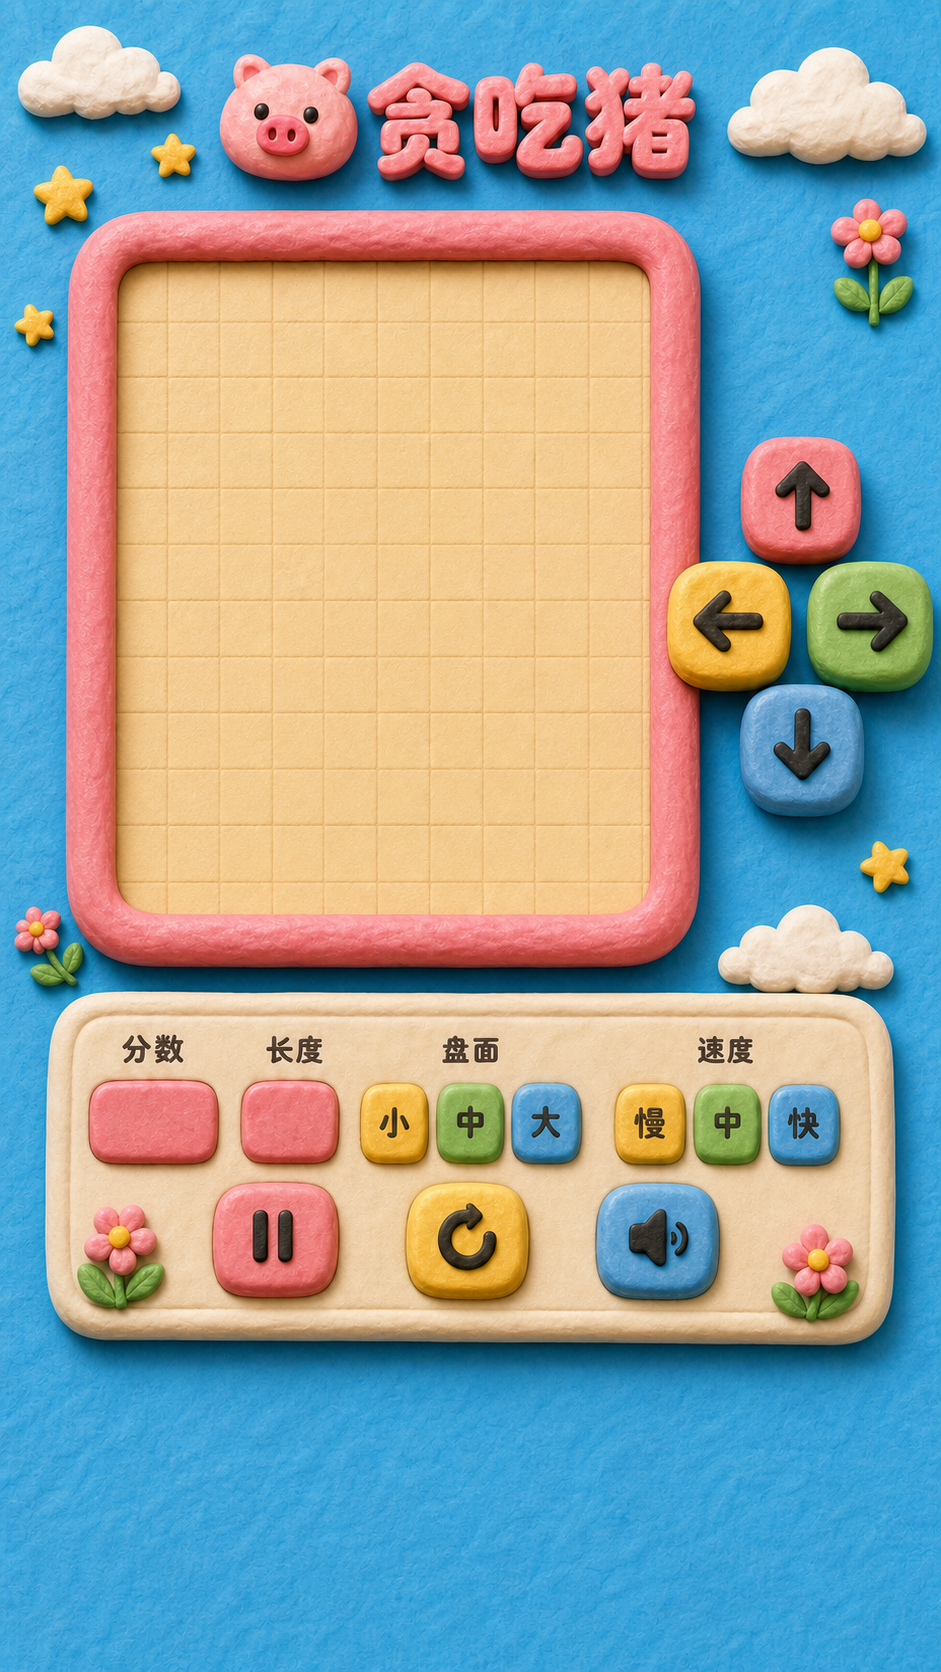
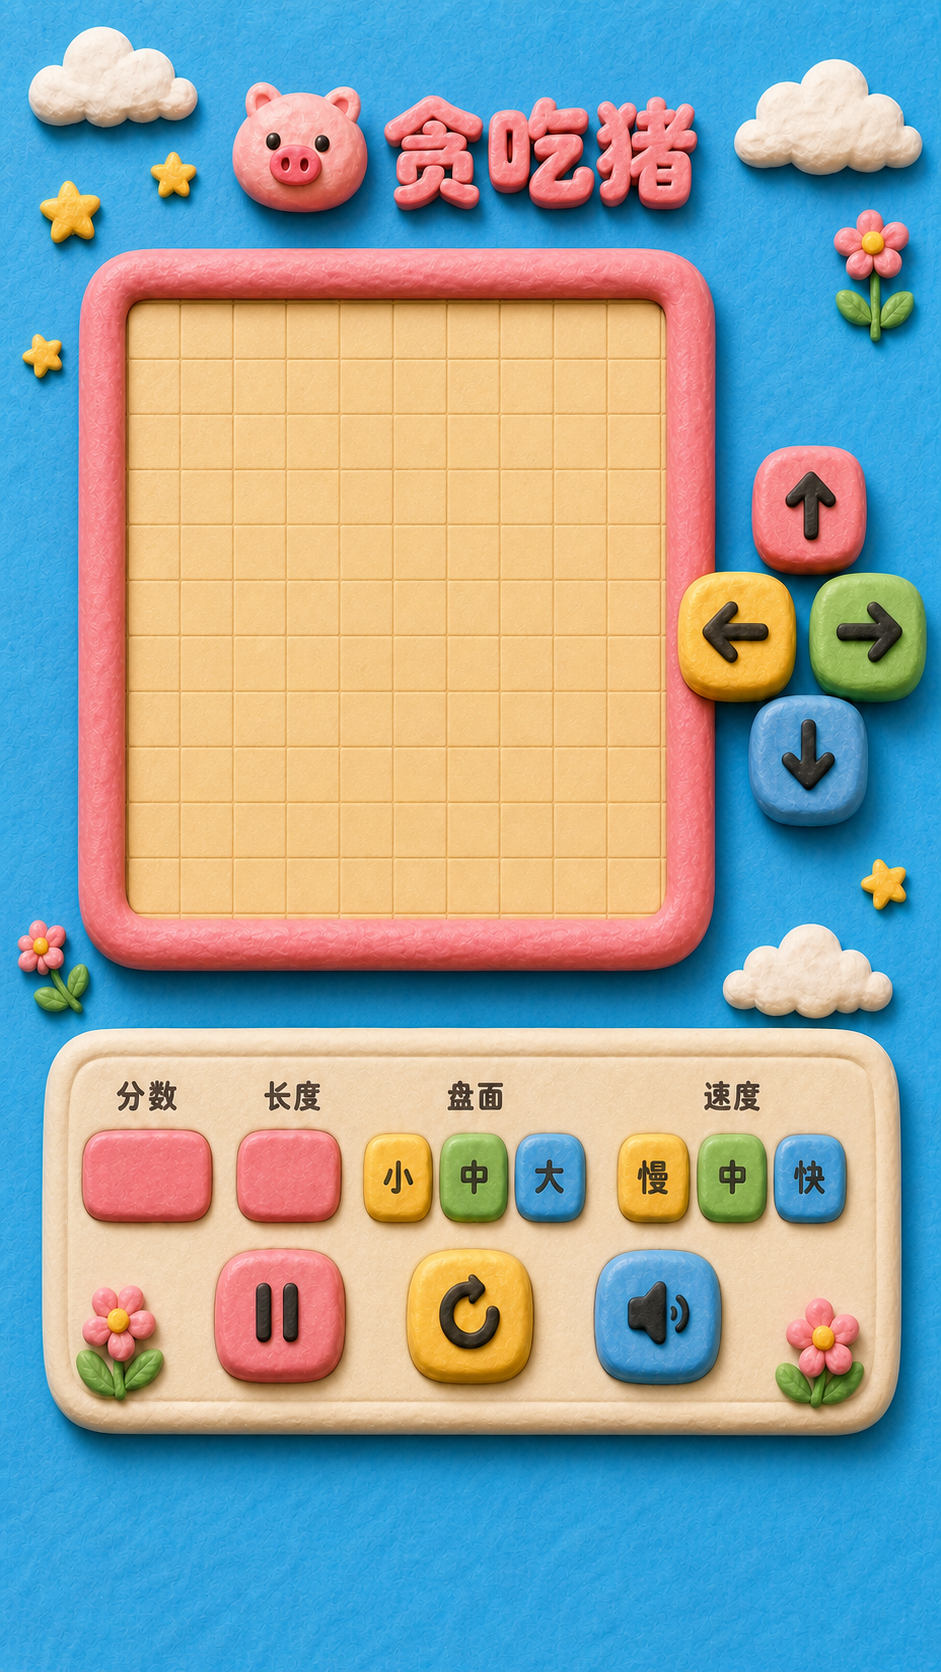
Fix clay grid proportions

diff --git a/index.html b/index.html
@@ -881,14 +881,14 @@
 
     .metric:nth-child(1) {
       left: 9.35%;
-      top: 64.82%;
+      top: 67.9%;
       width: 13.85%;
       height: 4.15%;
     }
 
     .metric:nth-child(2) {
       left: 25.55%;
-      top: 64.82%;
+      top: 67.9%;
       width: 11.3%;
       height: 4.15%;
     }
@@ -1292,9 +1292,9 @@
       const boardButtons = [...document.querySelectorAll(".board-button")];
 
       const boardSizes = {
-        small: 10,
-        medium: 12,
-        large: 14
+        small: { cols: 10, rows: 15 },
+        medium: { cols: 12, rows: 18 },
+        large: { cols: 14, rows: 21 }
       };
       const speeds = {
         slow: 260,
@@ -1329,12 +1329,16 @@
       let gameOver;
       let lastTime;
       let accumulator;
-      let gridSize = boardSizes.medium;
+      let boardConfig = boardSizes.medium;
+      let gridCols = boardConfig.cols;
+      let gridRows = boardConfig.rows;
       let boardSizeKey = "medium";
       let speedKey = "normal";
       let tile = 1;
       let tileX = 1;
       let tileY = 1;
+      let boardOffsetX = 0;
+      let boardOffsetY = 0;
       let dpr = 1;
       let best = Number(localStorage.getItem("greedyPigBest") || 0);
       let audioCtx = null;
@@ -1347,8 +1351,8 @@
       let touchStart = null;
 
       function resetGame() {
-        const mid = Math.floor(gridSize / 2);
-        const headX = Math.max(3, Math.floor(gridSize * .26));
+        const mid = Math.floor(gridRows / 2);
+        const headX = Math.max(3, Math.floor(gridCols * .26));
         snake = [
           { x: headX, y: mid },
           { x: headX - 1, y: mid },
@@ -1365,7 +1369,7 @@
         gameOver = false;
         lastTime = 0;
         accumulator = 0;
-        food = spawnFood({ x: Math.min(gridSize - 3, headX + 5), y: mid });
+        food = spawnFood({ x: Math.min(gridCols - 3, headX + 5), y: mid });
         updateHud();
         render();
       }
@@ -1429,15 +1433,15 @@
 
       function spawnFood(preferredCell) {
         const openCells = [];
-        for (let y = 0; y < gridSize; y += 1) {
-          for (let x = 0; x < gridSize; x += 1) {
+        for (let y = 0; y < gridRows; y += 1) {
+          for (let x = 0; x < gridCols; x += 1) {
             if (!snake || !snake.some(part => part.x === x && part.y === y)) {
               openCells.push({ x, y });
             }
           }
         }
         const preferredOpen = preferredCell && openCells.some(cell => cell.x === preferredCell.x && cell.y === preferredCell.y);
-        const cell = preferredOpen ? preferredCell : openCells[Math.floor(Math.random() * openCells.length)] || { x: 10, y: 10 };
+        const cell = preferredOpen ? preferredCell : openCells[Math.floor(Math.random() * openCells.length)] || { x: Math.floor(gridCols / 2), y: Math.floor(gridRows / 2) };
         const type = foods[Math.floor(Math.random() * foods.length)];
         return { ...cell, ...type };
       }
@@ -1461,7 +1465,7 @@
         };
 
         const eatsFood = nextHead.x === food.x && nextHead.y === food.y;
-        const hitsWall = nextHead.x < 0 || nextHead.y < 0 || nextHead.x >= gridSize || nextHead.y >= gridSize;
+        const hitsWall = nextHead.x < 0 || nextHead.y < 0 || nextHead.x >= gridCols || nextHead.y >= gridRows;
         const hitsBody = snake.some((part, index) => {
           const isTailMoving = index === snake.length - 1 && !eatsFood && growQueue === 0;
           return !isTailMoving && part.x === nextHead.x && part.y === nextHead.y;
@@ -1510,9 +1514,11 @@
         canvas.width = Math.round(rect.width * dpr);
         canvas.height = Math.round(rect.height * dpr);
         ctx.setTransform(dpr, 0, 0, dpr, 0, 0);
-        tileX = rect.width / gridSize;
-        tileY = rect.height / gridSize;
-        tile = Math.min(tileX, tileY);
+        tile = Math.min(rect.width / gridCols, rect.height / gridRows);
+        tileX = tile;
+        tileY = tile;
+        boardOffsetX = (rect.width - gridCols * tile) / 2;
+        boardOffsetY = (rect.height - gridRows * tile) / 2;
         render();
       }
 
@@ -1529,8 +1535,8 @@
 
       function cellCenter(cell) {
         return {
-          x: (cell.x + .5) * tileX,
-          y: (cell.y + .5) * tileY
+          x: boardOffsetX + (cell.x + .5) * tile,
+          y: boardOffsetY + (cell.y + .5) * tile
         };
       }
 
@@ -1548,18 +1554,45 @@
 
       function drawBoard(width, height) {
         ctx.save();
-        ctx.strokeStyle = "rgba(110, 78, 49, .12)";
-        ctx.lineWidth = 1;
-        for (let i = 1; i < gridSize; i += 1) {
-          const x = i * tileX;
-          const y = i * tileY;
+        const x0 = boardOffsetX;
+        const y0 = boardOffsetY;
+        const boardWidth = gridCols * tile;
+        const boardHeight = gridRows * tile;
+        const grad = ctx.createLinearGradient(x0, y0, x0 + boardWidth, y0 + boardHeight);
+        grad.addColorStop(0, "#f8dba4");
+        grad.addColorStop(.55, "#edc37e");
+        grad.addColorStop(1, "#dda964");
+        ctx.fillStyle = grad;
+        ctx.fillRect(x0, y0, boardWidth, boardHeight);
+
+        ctx.fillStyle = "rgba(255,255,255,.16)";
+        for (let y = y0 + tile * .35; y < y0 + boardHeight; y += tile * 2.1) {
+          for (let x = x0 + tile * .35; x < x0 + boardWidth; x += tile * 2.2) {
+            ctx.beginPath();
+            ctx.ellipse(x, y, tile * .09, tile * .035, -.45, 0, Math.PI * 2);
+            ctx.fill();
+          }
+        }
+
+        ctx.strokeStyle = "rgba(122, 79, 42, .24)";
+        ctx.lineWidth = Math.max(1, tile * .045);
+        for (let i = 1; i < gridCols; i += 1) {
+          const x = x0 + i * tile;
           ctx.beginPath();
-          ctx.moveTo(x, 0);
-          ctx.lineTo(x, height);
-          ctx.moveTo(0, y);
-          ctx.lineTo(width, y);
+          ctx.moveTo(x, y0);
+          ctx.lineTo(x, y0 + boardHeight);
           ctx.stroke();
         }
+        for (let i = 1; i < gridRows; i += 1) {
+          const y = y0 + i * tile;
+          ctx.beginPath();
+          ctx.moveTo(x0, y);
+          ctx.lineTo(x0 + boardWidth, y);
+          ctx.stroke();
+        }
+        ctx.strokeStyle = "rgba(105, 67, 38, .22)";
+        ctx.lineWidth = Math.max(1, tile * .08);
+        ctx.strokeRect(x0 + .5, y0 + .5, boardWidth - 1, boardHeight - 1);
         ctx.restore();
       }
 
@@ -1953,7 +1986,7 @@
       }
 
       function syncBoardSizeControls() {
-        document.documentElement.style.setProperty("--grid-size", String(gridSize));
+        document.documentElement.style.setProperty("--grid-size", String(gridCols));
         boardButtons.forEach(button => {
           button.setAttribute("aria-pressed", button.dataset.boardSize === boardSizeKey ? "true" : "false");
         });
@@ -1962,7 +1995,9 @@
       function setBoardSize(nextSizeKey) {
         if (!boardSizes[nextSizeKey] || nextSizeKey === boardSizeKey) return;
         boardSizeKey = nextSizeKey;
-        gridSize = boardSizes[boardSizeKey];
+        boardConfig = boardSizes[boardSizeKey];
+        gridCols = boardConfig.cols;
+        gridRows = boardConfig.rows;
         syncBoardSizeControls();
         stopBgm();
         stopSpeech();